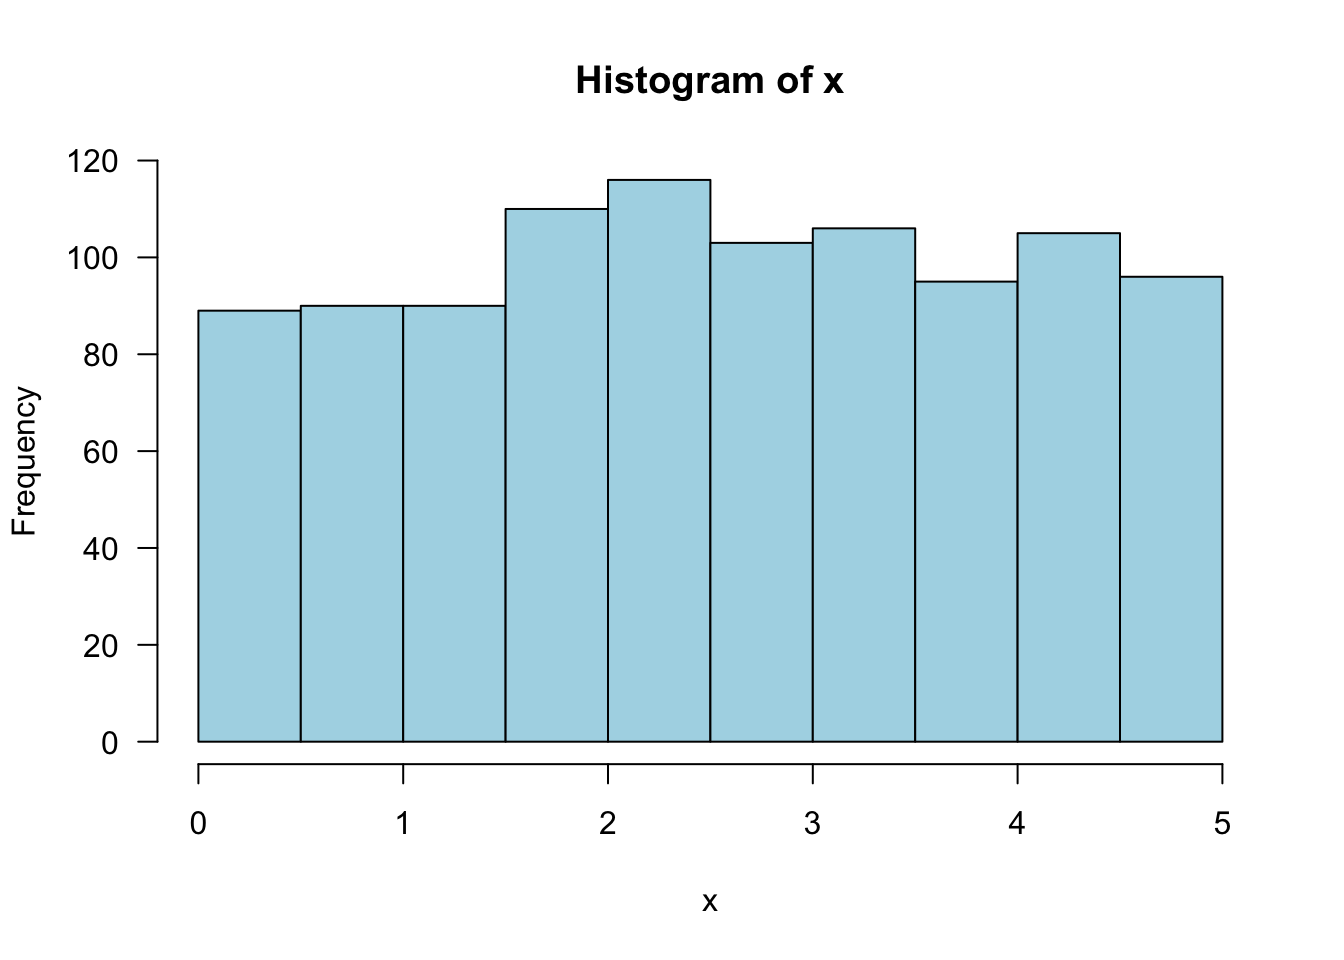
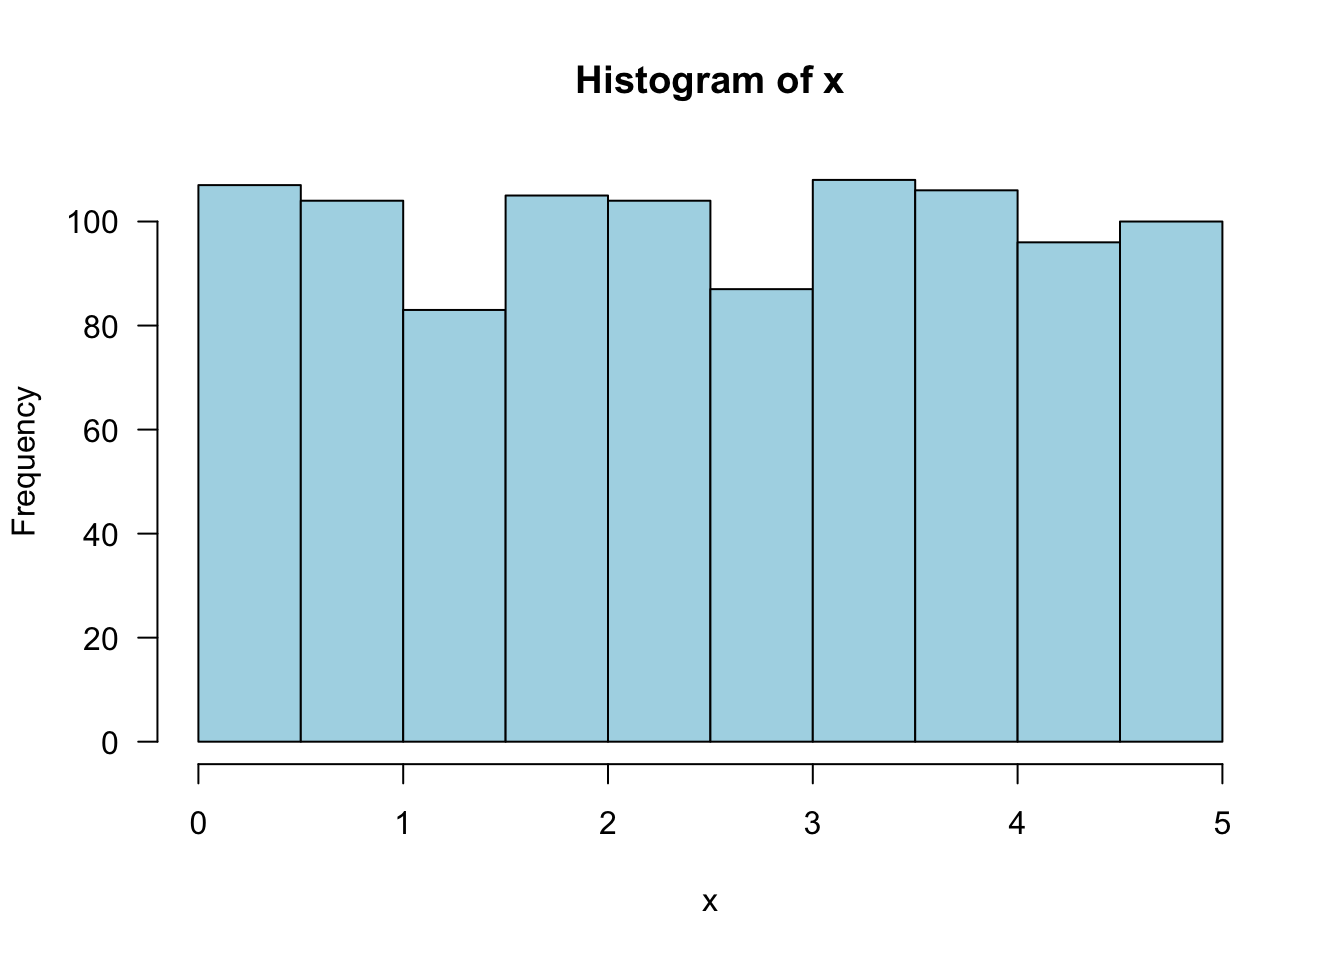
fix broken shiny albany link

diff --git a/docs/ch-4-continuous-random-variables-and-probability-distributions.html b/docs/ch-4-continuous-random-variables-and-probability-distributions.html
@@ -24,7 +24,7 @@
 <meta name="author" content="Joyce Robbins" />
 
 
-<meta name="date" content="2020-02-11" />
+<meta name="date" content="2020-04-28" />
 
   <meta name="viewport" content="width=device-width, initial-scale=1" />
   <meta name="apple-mobile-web-app-capable" content="yes" />
@@ -299,11 +299,11 @@ code span.wa { color: #60a0b0; font-weight: bold; font-style: italic; } /* Warni
 <p>Randomly choose one number from the distribution:</p>
 <p><span class="math inline">\(f(x) = .2\)</span> for <span class="math inline">\(0 \leq x \leq 5\)</span>, 0 otherwise.</p>
 <div class="sourceCode" id="cb149"><pre class="sourceCode r"><code class="sourceCode r"><a class="sourceLine" id="cb149-1" data-line-number="1"><span class="kw">runif</span>(<span class="dt">n =</span> <span class="dv">1</span>, <span class="dt">min =</span> <span class="dv">0</span>, <span class="dt">max =</span> <span class="dv">5</span>)</a></code></pre></div>
-<pre><code>## [1] 3.187886</code></pre>
+<pre><code>## [1] 2.305609</code></pre>
 <p>Take the average of 1000 picks:</p>
 <div class="sourceCode" id="cb151"><pre class="sourceCode r"><code class="sourceCode r"><a class="sourceLine" id="cb151-1" data-line-number="1">x &lt;-<span class="st"> </span><span class="kw">runif</span>(<span class="dt">n =</span> <span class="dv">1000</span>, <span class="dt">min =</span> <span class="dv">0</span>, <span class="dt">max =</span> <span class="dv">5</span>)</a>
 <a class="sourceLine" id="cb151-2" data-line-number="2"><span class="kw">mean</span>(x)</a></code></pre></div>
-<pre><code>## [1] 2.542436</code></pre>
+<pre><code>## [1] 2.492167</code></pre>
 <p>Draw a histogram of the 1000 picks:</p>
 <div class="sourceCode" id="cb153"><pre class="sourceCode r"><code class="sourceCode r"><a class="sourceLine" id="cb153-1" data-line-number="1"><span class="kw">hist</span>(x, <span class="dt">las =</span> <span class="dv">1</span>, <span class="dt">col =</span> <span class="st">&quot;lightblue&quot;</span>)</a></code></pre></div>
 <p><img src="STAT1201-resource_files/figure-html/unnamed-chunk-41-1.png" width="672" /></p>

diff --git a/docs/ch-5-joint-probability.html b/docs/ch-5-joint-probability.html
@@ -24,7 +24,7 @@
 <meta name="author" content="Joyce Robbins" />
 
 
-<meta name="date" content="2020-02-11" />
+<meta name="date" content="2020-04-28" />
 
   <meta name="viewport" content="width=device-width, initial-scale=1" />
   <meta name="apple-mobile-web-app-capable" content="yes" />
@@ -302,7 +302,7 @@ code span.wa { color: #60a0b0; font-weight: bold; font-style: italic; } /* Warni
 <div id="resources-1" class="section level2 unnumbered">
 <h2>Resources</h2>
 <p>Correlation and Covariance Visualization</p>
-<p><a href="http://shiny.albany.edu/stat/rectangles/" class="uri">http://shiny.albany.edu/stat/rectangles/</a></p>
+<p><a href="https://shiny.rit.albany.edu/stat/rectangles/" class="uri">https://shiny.rit.albany.edu/stat/rectangles/</a></p>
 
 </div>
 </div>

diff --git a/docs/index.html b/docs/index.html
@@ -24,7 +24,7 @@
 <meta name="author" content="Joyce Robbins" />
 
 
-<meta name="date" content="2020-02-11" />
+<meta name="date" content="2020-04-28" />
 
   <meta name="viewport" content="width=device-width, initial-scale=1" />
   <meta name="apple-mobile-web-app-capable" content="yes" />
@@ -290,7 +290,7 @@ code span.wa { color: #60a0b0; font-weight: bold; font-style: italic; } /* Warni
 <div id="header">
 <h1 class="title">Stat 1201 Supplemental Materials</h1>
 <p class="author"><em>Joyce Robbins</em></p>
-<p class="date"><em>2020-02-11</em></p>
+<p class="date"><em>2020-04-28</em></p>
 </div>
 <div id="course-material" class="section level1 unnumbered">
 <h1>Course material</h1>

diff --git a/docs/ch-1-descriptive-statistics.html b/docs/ch-1-descriptive-statistics.html
@@ -24,7 +24,7 @@
 <meta name="author" content="Joyce Robbins" />
 
 
-<meta name="date" content="2020-02-11" />
+<meta name="date" content="2020-04-28" />
 
   <meta name="viewport" content="width=device-width, initial-scale=1" />
   <meta name="apple-mobile-web-app-capable" content="yes" />

diff --git a/docs/ch-12-linear-regression.html b/docs/ch-12-linear-regression.html
@@ -24,7 +24,7 @@
 <meta name="author" content="Joyce Robbins" />
 
 
-<meta name="date" content="2020-02-11" />
+<meta name="date" content="2020-04-28" />
 
   <meta name="viewport" content="width=device-width, initial-scale=1" />
   <meta name="apple-mobile-web-app-capable" content="yes" />

diff --git a/docs/ch-13-nonlinear-and-multiple-regression.html b/docs/ch-13-nonlinear-and-multiple-regression.html
@@ -24,7 +24,7 @@
 <meta name="author" content="Joyce Robbins" />
 
 
-<meta name="date" content="2020-02-11" />
+<meta name="date" content="2020-04-28" />
 
   <meta name="viewport" content="width=device-width, initial-scale=1" />
   <meta name="apple-mobile-web-app-capable" content="yes" />

diff --git a/docs/ch-14-chi-squared-test.html b/docs/ch-14-chi-squared-test.html
@@ -24,7 +24,7 @@
 <meta name="author" content="Joyce Robbins" />
 
 
-<meta name="date" content="2020-02-11" />
+<meta name="date" content="2020-04-28" />
 
   <meta name="viewport" content="width=device-width, initial-scale=1" />
   <meta name="apple-mobile-web-app-capable" content="yes" />

diff --git a/docs/ch-2-conditional-probability.html b/docs/ch-2-conditional-probability.html
@@ -24,7 +24,7 @@
 <meta name="author" content="Joyce Robbins" />
 
 
-<meta name="date" content="2020-02-11" />
+<meta name="date" content="2020-04-28" />
 
   <meta name="viewport" content="width=device-width, initial-scale=1" />
   <meta name="apple-mobile-web-app-capable" content="yes" />

diff --git a/docs/ch-2-probability.html b/docs/ch-2-probability.html
@@ -24,7 +24,7 @@
 <meta name="author" content="Joyce Robbins" />
 
 
-<meta name="date" content="2020-02-11" />
+<meta name="date" content="2020-04-28" />
 
   <meta name="viewport" content="width=device-width, initial-scale=1" />
   <meta name="apple-mobile-web-app-capable" content="yes" />

diff --git a/docs/ch-3-discrete-distributions.html b/docs/ch-3-discrete-distributions.html
@@ -24,7 +24,7 @@
 <meta name="author" content="Joyce Robbins" />
 
 
-<meta name="date" content="2020-02-11" />
+<meta name="date" content="2020-04-28" />
 
   <meta name="viewport" content="width=device-width, initial-scale=1" />
   <meta name="apple-mobile-web-app-capable" content="yes" />

diff --git a/docs/ch-5-random-samples.html b/docs/ch-5-random-samples.html
@@ -24,7 +24,7 @@
 <meta name="author" content="Joyce Robbins" />
 
 
-<meta name="date" content="2020-02-11" />
+<meta name="date" content="2020-04-28" />
 
   <meta name="viewport" content="width=device-width, initial-scale=1" />
   <meta name="apple-mobile-web-app-capable" content="yes" />

diff --git a/docs/ch-6-point-estimation.html b/docs/ch-6-point-estimation.html
@@ -24,7 +24,7 @@
 <meta name="author" content="Joyce Robbins" />
 
 
-<meta name="date" content="2020-02-11" />
+<meta name="date" content="2020-04-28" />
 
   <meta name="viewport" content="width=device-width, initial-scale=1" />
   <meta name="apple-mobile-web-app-capable" content="yes" />
